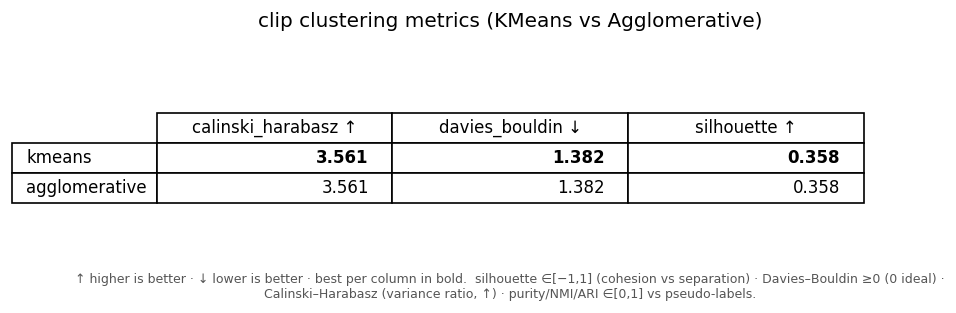
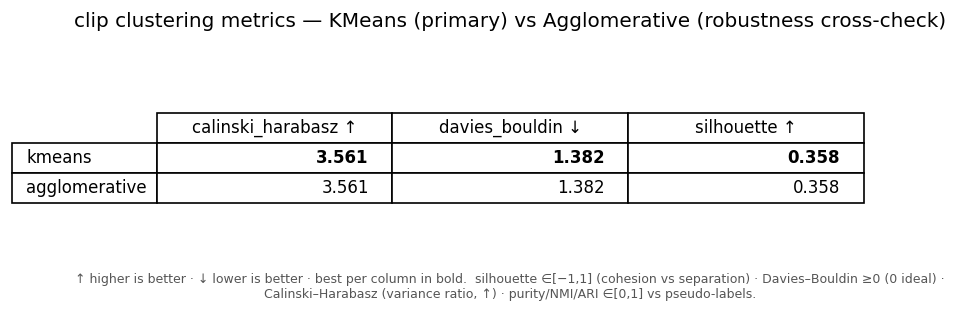
docs: clarify Part A Agglomerative is a robustness cross-check (not a separate result)
Agglomerative (Ward) is run alongside KMeans only to confirm the encoder ranking
is algorithm-robust (same DINOv2 > Point-MAE ordering). Made that explicit on the
metrics figure title and in the README, so it no longer reads as an orphaned
comparison — it appears as numbers (metrics table + overview Agglo. sil column),
KMeans carries the visual narrative.

diff --git a/src/part_a/pipeline.py b/src/part_a/pipeline.py
@@ -76,7 +76,8 @@ def run_clustering_stage(extractor: FeatureExtractor, assets: Sequence[Asset],
     metric_table_png({a: {k: v for k, v in r.items() if k != "n_clusters"}
                       for a, r in results.items()},
                      fig_dir / f"{extractor.name}_metrics.png",
-                     title=f"{extractor.name} clustering metrics (KMeans vs Agglomerative)")
+                     title=f"{extractor.name} clustering metrics — KMeans (primary) vs "
+                           f"Agglomerative (robustness cross-check)")
     # Per-cluster montage (primary algorithm = KMeans). The plain per-algorithm UMAP scatters
     # are intentionally NOT written for Part A — part_a_overview.png + the interactive viewer
     # cover the same ground far more richly (renders, GLB ids, cluster colours, metrics table).

diff --git a/README.md b/README.md
@@ -191,7 +191,13 @@ feature separates the glasses most cleanly**:
 | Point-MAE (3D mesh)     | 7 | 0.407        | 1.008            | 3.002               |
 | CLIP (2D render)        | 3 | 0.358        | 1.382            | 3.560               |
 
-(Agglomerative shows the same DINOv2 > Point-MAE ordering: 0.489 vs 0.407 silhouette.)
+**Agglomerative is a cross-check, not a separate result.** Alongside KMeans we also cluster with
+**Agglomerative (Ward)** — a hierarchical method with different assumptions than centroid-based
+KMeans — purely to confirm the encoder ranking is *algorithm-robust*. It gives the **same DINOv2 >
+Point-MAE ordering** (0.489 vs 0.407 silhouette), so the result isn't an artifact of one algorithm.
+That's why Agglomerative appears only as *numbers* — the `*_metrics.png` table and the overview's
+*Agglo. sil* column — and is never visualized separately: the KMeans partition carries the visual
+narrative.
 
 **Is the different k fair?** Yes. *k* is chosen **per encoder by the same rule** — the silhouette
 sweep over k∈[2,8]. DINOv2/Point-MAE peak at **k=7**, CLIP at **k=3**; that difference is *itself a